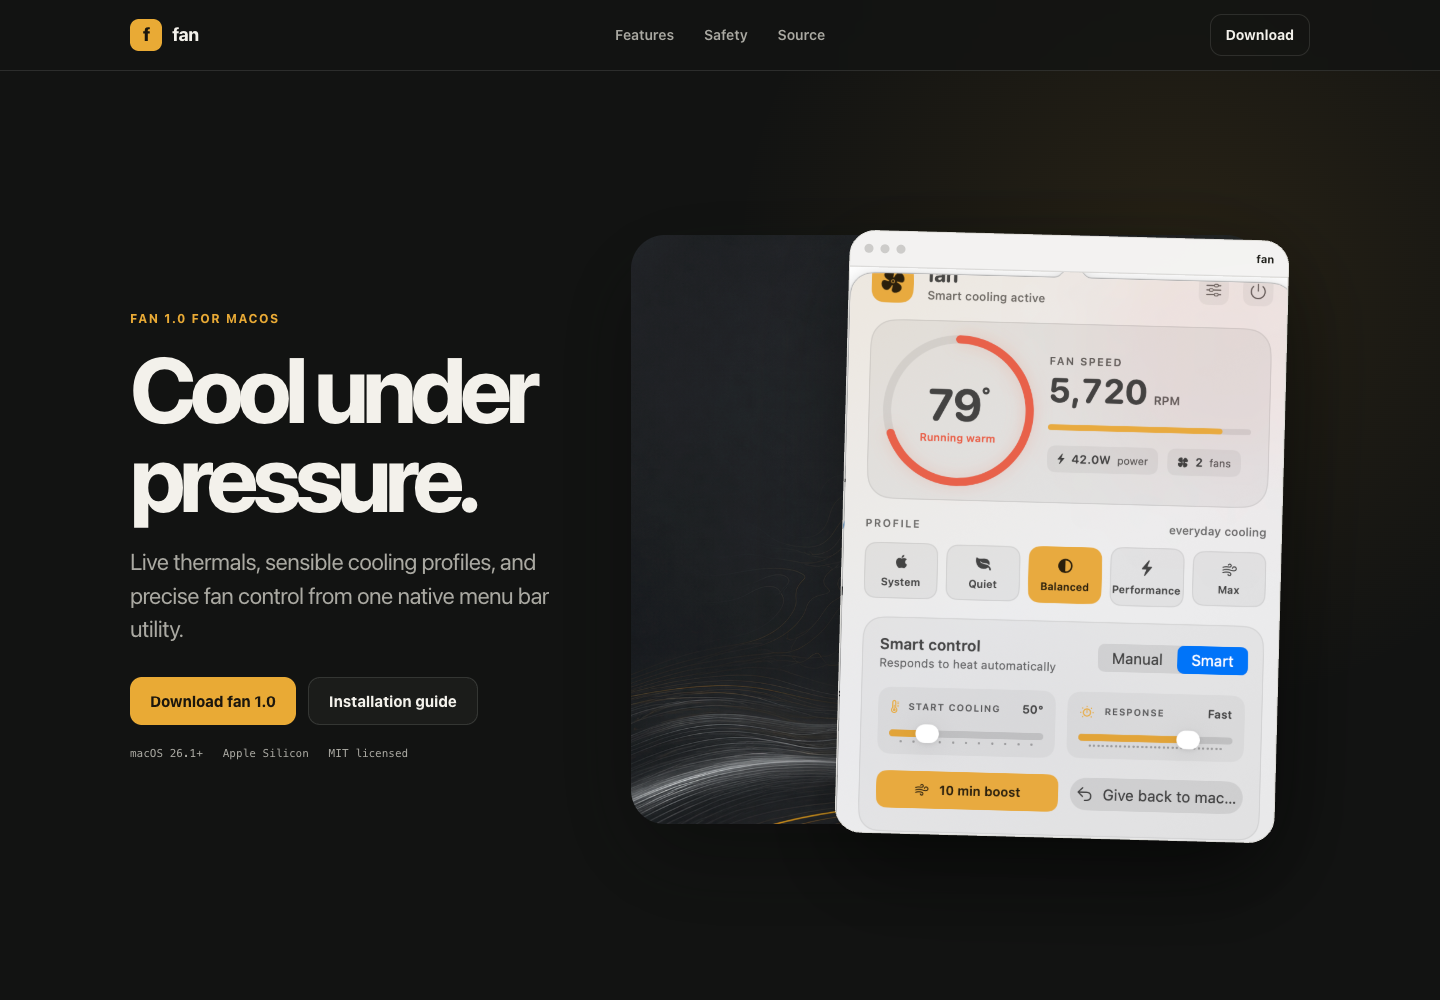
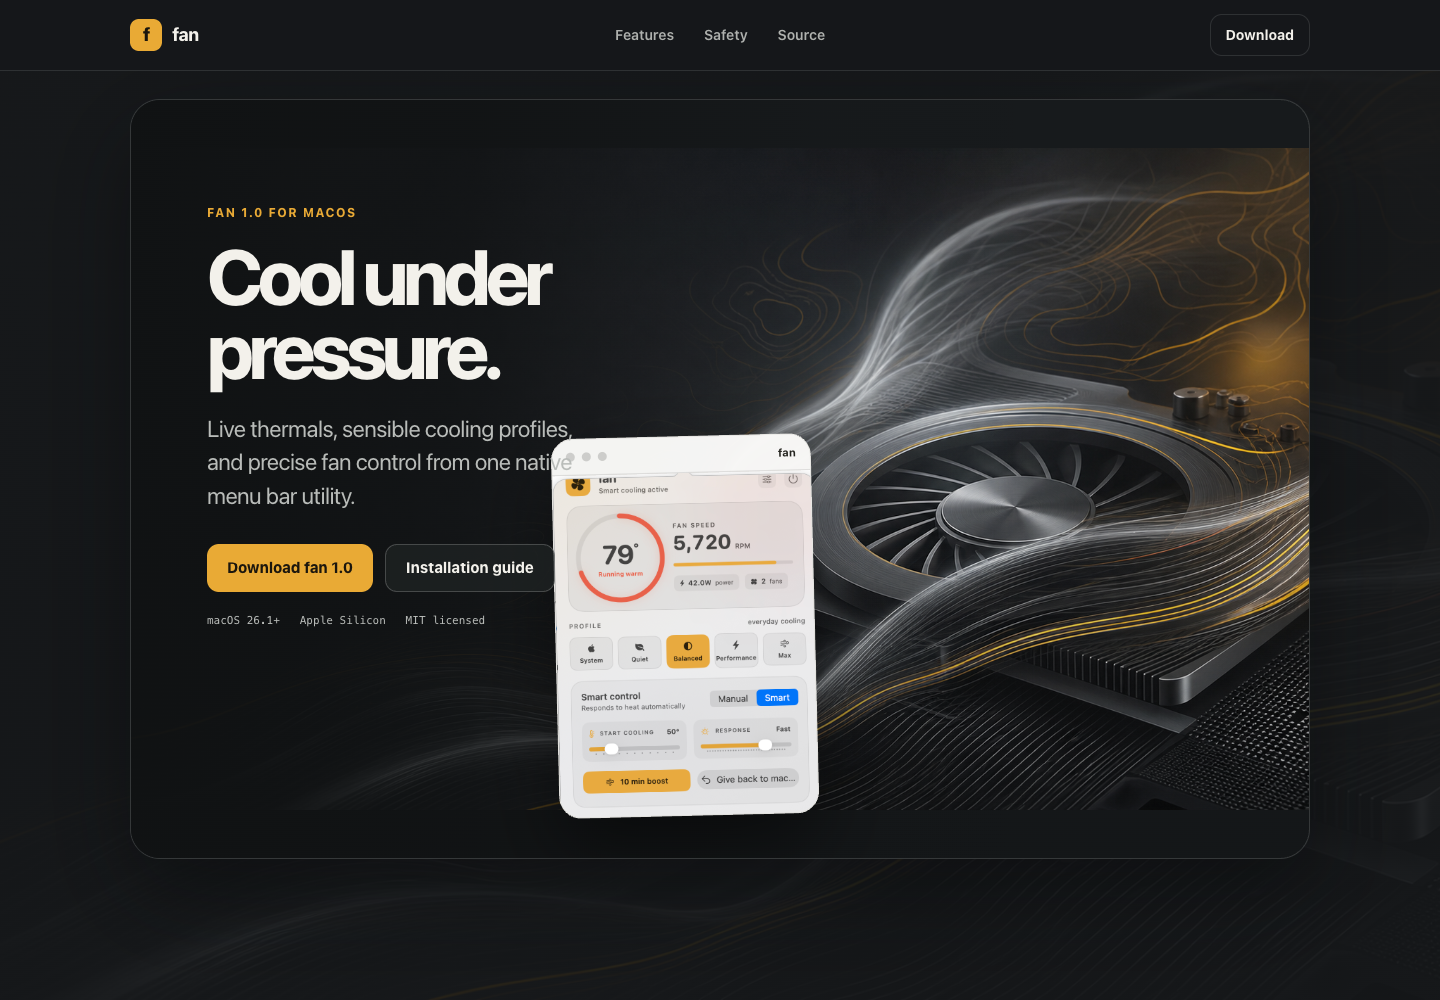
Showcase full fan artwork across product site

diff --git a/docs/styles.css b/docs/styles.css
@@ -1,35 +1,35 @@
 :root {
   color-scheme: light dark;
-  --bg: #121312;
-  --bg-soft: #181a18;
-  --surface: #20221f;
-  --surface-raised: #292b27;
+  --bg: #151719;
+  --bg-soft: #1d2022;
+  --surface: #25282a;
+  --surface-raised: #303436;
   --text: #f3f1eb;
-  --muted: #aaa9a2;
+  --muted: #afb1ae;
   --line: rgba(255, 255, 255, 0.11);
   --accent: #e9aa35;
   --accent-strong: #f0b33e;
   --accent-ink: #1b160d;
   --radius-card: 24px;
   --radius-control: 12px;
-  --shadow: 0 34px 90px rgba(5, 7, 5, 0.42);
+  --shadow: 0 34px 90px rgba(5, 7, 8, 0.46);
   --shell: min(1180px, calc(100vw - 48px));
   font-family: -apple-system, BlinkMacSystemFont, "SF Pro Display", "Helvetica Neue", sans-serif;
 }
 
 @media (prefers-color-scheme: light) {
   :root {
-    --bg: #eff0ed;
-    --bg-soft: #e6e7e3;
-    --surface: #f8f8f5;
-    --surface-raised: #ffffff;
-    --text: #1e201d;
-    --muted: #666861;
-    --line: rgba(28, 31, 27, 0.13);
+    --bg: #d7d9d8;
+    --bg-soft: #c8cbca;
+    --surface: #e8eae8;
+    --surface-raised: #f3f4f2;
+    --text: #202324;
+    --muted: #5f6463;
+    --line: rgba(30, 35, 35, 0.15);
     --accent: #d8941f;
     --accent-strong: #e3a12d;
     --accent-ink: #18130a;
-    --shadow: 0 34px 90px rgba(34, 38, 31, 0.16);
+    --shadow: 0 34px 90px rgba(44, 50, 50, 0.2);
   }
 }
 
@@ -38,7 +38,8 @@ html { scroll-behavior: smooth; }
 body {
   margin: 0;
   background:
-    radial-gradient(circle at 82% 4%, color-mix(in srgb, var(--accent) 10%, transparent), transparent 28rem),
+    linear-gradient(180deg, color-mix(in srgb, var(--bg) 91%, transparent), color-mix(in srgb, var(--bg) 97%, transparent)),
+    url("assets/art/thermal-airflow.png") center top / cover fixed no-repeat,
     var(--bg);
   color: var(--text);
   line-height: 1.55;
@@ -100,17 +101,24 @@ img { display: block; max-width: 100%; }
 .nav-download { justify-self: end; padding: 9px 15px; border: 1px solid var(--line); border-radius: var(--radius-control); font-size: 14px; font-weight: 700; }
 
 .hero {
-  min-height: calc(100dvh - 70px);
-  display: grid;
-  grid-template-columns: minmax(0, 0.84fr) minmax(520px, 1.16fr);
-  align-items: center;
-  gap: clamp(44px, 7vw, 96px);
-  padding-block: clamp(64px, 8vw, 108px);
+  position: relative;
+  isolation: isolate;
+  min-height: min(760px, calc(100dvh - 96px));
+  overflow: hidden;
+  margin-block: 28px 44px;
+  padding: clamp(70px, 8vw, 104px) clamp(34px, 6vw, 76px);
+  border: 1px solid rgba(255, 255, 255, 0.13);
+  border-radius: 30px;
+  background: #171a1c;
+  box-shadow: var(--shadow);
 }
 .eyebrow { margin: 0 0 16px; color: var(--accent); font-size: 12px; font-weight: 760; letter-spacing: 0.13em; text-transform: uppercase; }
 h1, h2, h3, p { margin-top: 0; }
 h1 { max-width: 760px; margin-bottom: 24px; font-size: clamp(54px, 6.4vw, 94px); line-height: 0.96; letter-spacing: -0.065em; font-weight: 760; }
+.hero-copy { position: relative; z-index: 3; width: min(390px, 36%); color: #f3f1eb; }
+.hero-copy h1 { font-size: clamp(56px, 5.4vw, 78px); }
 .hero-intro { max-width: 590px; margin-bottom: 32px; color: var(--muted); font-size: clamp(18px, 2vw, 23px); line-height: 1.45; letter-spacing: -0.02em; }
+.hero-copy .hero-intro, .hero-copy .compatibility { color: #b9bcb9; }
 .hero-actions { display: flex; flex-wrap: wrap; gap: 12px; }
 .button { min-height: 48px; display: inline-flex; align-items: center; justify-content: center; padding: 0 20px; border-radius: var(--radius-control); font-size: 15px; font-weight: 740; transition: transform 180ms ease, background 180ms ease, border-color 180ms ease; }
 .button:hover { transform: translateY(-2px); }
@@ -118,19 +126,21 @@ h1 { max-width: 760px; margin-bottom: 24px; font-size: clamp(54px, 6.4vw, 94px);
 .button-primary { background: var(--accent); color: var(--accent-ink); }
 .button-primary:hover { background: var(--accent-strong); }
 .button-secondary { border: 1px solid var(--line); background: color-mix(in srgb, var(--surface) 66%, transparent); }
+.hero-copy .button-secondary { border-color: rgba(255,255,255,0.19); background: rgba(32,35,36,0.7); }
 .button:focus-visible, .nav a:focus-visible, .text-link:focus-visible, .footer a:focus-visible, button:focus-visible { outline: 3px solid color-mix(in srgb, var(--accent) 70%, white); outline-offset: 3px; }
 .compatibility { margin: 20px 0 0; color: var(--muted); font-family: "SFMono-Regular", Consolas, monospace; font-size: 11px; }
 
-.hero-visual { position: relative; min-height: 670px; display: grid; place-items: center; }
-.airflow-art { position: absolute; inset: 5% -12% auto -8%; width: 120%; height: 88%; object-fit: cover; border-radius: 34px; opacity: 0.9; filter: saturate(0.88); box-shadow: var(--shadow); }
-.app-shot { position: relative; width: min(440px, 78%); margin-left: 21%; overflow: hidden; border: 1px solid rgba(255,255,255,0.22); border-radius: 26px; background: rgba(237, 235, 229, 0.88); box-shadow: 0 36px 90px rgba(0,0,0,0.46); transform: rotate(1.5deg); }
+.hero-visual { position: absolute; inset: 0; z-index: 1; }
+.hero-visual::after { content: ""; position: absolute; inset: 0; background: linear-gradient(90deg, rgba(16,18,19,0.97) 0%, rgba(16,18,19,0.78) 29%, rgba(16,18,19,0.12) 58%, transparent 78%), linear-gradient(0deg, rgba(13,15,16,0.32), transparent 42%); pointer-events: none; }
+.airflow-art { position: absolute; inset: 0; width: 100%; height: 100%; object-fit: contain; object-position: center; opacity: 1; filter: saturate(0.86) contrast(1.03); }
+.app-shot { position: absolute; z-index: 2; left: 36%; bottom: 42px; width: min(260px, 23%); overflow: hidden; border: 1px solid rgba(255,255,255,0.27); border-radius: 22px; background: rgba(237, 235, 229, 0.9); box-shadow: 0 32px 76px rgba(0,0,0,0.5); transform: rotate(-1.4deg); }
 .app-shot-topbar { height: 36px; display: flex; align-items: center; gap: 7px; padding: 0 14px; background: rgba(255,255,255,0.72); border-bottom: 1px solid rgba(20,20,20,0.1); color: #24241f; }
 .app-shot-topbar span { width: 9px; height: 9px; border-radius: 50%; background: rgba(30,30,26,0.18); }
 .app-shot-topbar strong { margin-left: auto; font-size: 11px; }
-.app-shot-viewport { height: 565px; overflow: hidden; }
+.app-shot-viewport { height: 342px; overflow: hidden; }
 .app-shot-viewport img { width: 100%; height: auto; }
 
-.proof { display: grid; grid-template-columns: repeat(3, 1fr); gap: 0; padding-block: 26px; border-top: 1px solid var(--line); border-bottom: 1px solid var(--line); }
+.proof { display: grid; grid-template-columns: repeat(3, 1fr); gap: 0; padding: 26px 28px; border: 1px solid var(--line); border-radius: var(--radius-card); background: color-mix(in srgb, var(--surface) 72%, transparent); }
 .proof div { padding: 4px 28px; border-right: 1px solid var(--line); }
 .proof div:first-child { padding-left: 0; }
 .proof div:last-child { border-right: 0; }
@@ -162,7 +172,7 @@ h2 { margin-bottom: 22px; font-size: clamp(38px, 5vw, 68px); line-height: 1.02; 
 .control { border-top: 1px solid var(--line); }
 .control-copy { max-width: 820px; }
 .control-grid { display: grid; grid-template-columns: 1.3fr 0.8fr; gap: 18px; margin-top: 54px; }
-.control-grid article { min-height: 260px; padding: 30px; border: 1px solid var(--line); border-radius: var(--radius-card); background: var(--surface); }
+.control-grid article { min-height: 260px; padding: 30px; border: 1px solid var(--line); border-radius: var(--radius-card); background: color-mix(in srgb, var(--surface) 86%, transparent); }
 .control-grid article:first-child { grid-row: span 2; min-height: 538px; padding: 40px; background: linear-gradient(150deg, color-mix(in srgb, var(--accent) 18%, var(--surface)), var(--surface) 58%); }
 .control-label { display: flex; justify-content: space-between; gap: 18px; font-size: 13px; }
 .control-label span { color: var(--muted); text-transform: uppercase; letter-spacing: 0.1em; font-weight: 700; }
@@ -191,7 +201,7 @@ h2 { margin-bottom: 22px; font-size: clamp(38px, 5vw, 68px); line-height: 1.02; 
 .install ol { margin: 40px 0 0; padding: 0; list-style: none; }
 .install li { display: grid; grid-template-columns: 100px 1fr; padding: 15px 0; border-bottom: 1px solid var(--line); }
 .install li span { color: var(--muted); }
-.install-panel { padding: 34px; border: 1px solid var(--line); border-radius: var(--radius-card); background: var(--surface); }
+.install-panel { padding: 34px; border: 1px solid var(--line); border-radius: var(--radius-card); background: color-mix(in srgb, var(--surface) 88%, transparent); }
 .install-panel > p { color: var(--muted); font-size: 12px; text-transform: uppercase; letter-spacing: 0.1em; font-weight: 700; }
 .command-row { display: grid; grid-template-columns: minmax(0, 1fr) auto; gap: 12px; align-items: start; margin: 20px 0 28px; padding: 18px; border-radius: var(--radius-control); background: var(--bg); }
 .command-row code { overflow-wrap: anywhere; font-family: "SFMono-Regular", Consolas, monospace; font-size: 12px; color: var(--muted); }
@@ -228,8 +238,9 @@ h2 { margin-bottom: 22px; font-size: clamp(38px, 5vw, 68px); line-height: 1.02; 
   :root { --shell: min(100% - 36px, 760px); }
   .nav { grid-template-columns: 1fr auto; }
   .nav-links { display: none; }
-  .hero { grid-template-columns: 1fr; padding-top: 72px; }
-  .hero-visual { min-height: 650px; }
+  .hero { min-height: 720px; padding: 64px 42px; }
+  .hero-copy { width: min(390px, 52%); }
+  .app-shot { left: 46%; width: 250px; }
   .proof { grid-template-columns: 1fr; }
   .proof div, .proof div:first-child { padding: 16px 0; border-right: 0; border-bottom: 1px solid var(--line); }
   .proof div:last-child { border-bottom: 0; }
@@ -246,12 +257,13 @@ h2 { margin-bottom: 22px; font-size: clamp(38px, 5vw, 68px); line-height: 1.02; 
   .site-header { position: static; }
   .nav { min-height: 62px; }
   .nav-download { padding: 8px 12px; }
-  .hero { min-height: auto; gap: 36px; padding-block: 52px 70px; }
-  h1 { font-size: clamp(48px, 15vw, 70px); }
-  .hero-visual { min-height: 530px; }
-  .airflow-art { inset: 0 -20% auto -12%; width: 138%; height: 88%; }
-  .app-shot { width: 84%; margin-left: 10%; }
-  .app-shot-viewport { height: 470px; }
+  .hero { min-height: 730px; margin-top: 18px; padding: 48px 26px; }
+  .hero-copy { width: 100%; }
+  .hero-copy h1 { font-size: clamp(50px, 15vw, 66px); }
+  .hero-intro { max-width: 31ch; }
+  .hero-visual::after { background: linear-gradient(180deg, rgba(16,18,19,0.98) 0%, rgba(16,18,19,0.9) 38%, rgba(16,18,19,0.18) 68%, rgba(16,18,19,0.08)); }
+  .airflow-art { top: auto; left: 7%; right: auto; width: 86%; height: 56%; object-position: center bottom; }
+  .app-shot { display: none; }
   .profile-rail { grid-template-columns: 1fr; }
   .profile-rail article, .profile-rail article:last-child { grid-column: auto; min-height: 165px; border-right: 0; }
   .profile-rail strong { margin-top: 28px; }

diff --git a/docs/index.html b/docs/index.html
@@ -13,6 +13,7 @@
   <meta name="twitter:card" content="summary_large_image">
   <title>fan for macOS</title>
   <link rel="icon" type="image/png" href="assets/logo.png">
+  <link rel="preload" as="image" href="assets/art/thermal-airflow.png">
   <link rel="stylesheet" href="styles.css">
 </head>
 <body>